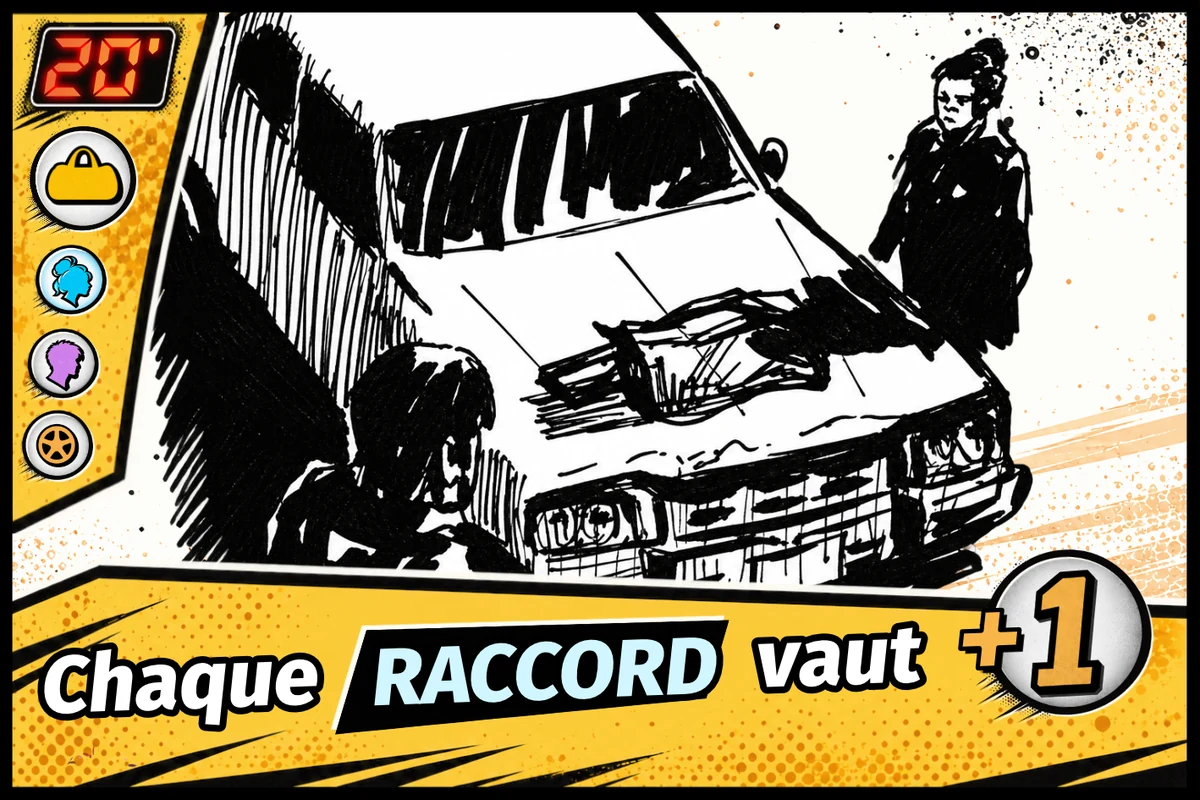
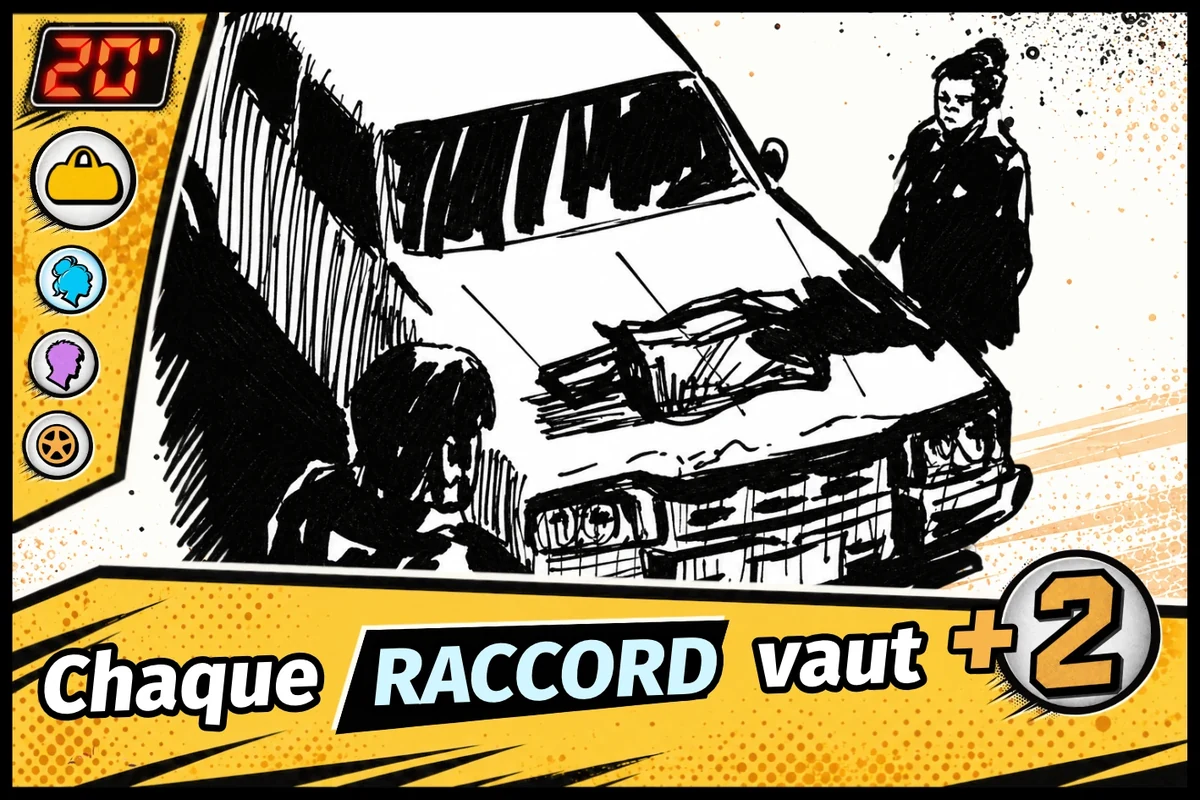
v4.1.21 - Nouveau Plan Large : le L20
- Nouveau Plan Large : le L20 — sans chrono, Objet, Arme, Véhicule, « 4 × SÉQUENCE avec Objet + Véhicule + Arme ». La pioche passe à 52 cartes.
- Trois Plans Larges revus : L5 « Chaque Raccord vaut +2 », L8 « 1 × carte PLAN dans le Chutier », L4 redessiné avec ses six icônes (même décompte).

Claude-Session: https://claude.ai/code/session_01SEL89cNhQA7nZJAfcMueK5

diff --git a/js/data.js b/js/data.js
@@ -1017,7 +1017,7 @@ export function recenserBoite(cfg) {
 //   desactives  = [id de carte, …]       — les cartes écartées du paquet
 //
 // La clé d'un plan : « GP13 » pour un Gros Plan, son seul numéro pour un Plan
-// Large ou un Plan de départ — les deux séries se numérotent à part, L1 à L19
+// Large ou un Plan de départ — les deux séries se numérotent à part, L1 à L20
 // et GP00 à GP102.
 
 /** La clé d'un plan. */
@@ -1030,20 +1030,21 @@ export function cleplan(num, grosPlan) {
 // le site ne les redessine pas. Ce qui suit est ce que le MOTEUR a besoin d'en
 // savoir pour compter — minutage en minutes, icônes, pouvoir —, lu sur chaque
 // carte. La première icône est la DOMINANTE, la grande, qui donne sa couleur à
-// la carte ; le L6 et le GP00 n'en ont pas, et l'Entracte (L10) n'a aucune icône.
+// la carte ; le L6, le L20 et le GP00 n'en ont pas, et l'Entracte (L10) n'a aucune
+// icône.
 //
-// Les dix-neuf Plans Larges sont numérotés L1 à L19, par minutage croissant.
+// Les vingt Plans Larges : L1 à L19 par chrono croissant, puis le L20, sans chrono.
 // Quatre d'entre eux sont les plans de départ : L5, L7, L12 et L16.
 const PD41 = [5, 7, 12, 16];
 const PLANS_41 = [
   PL(1, 10, ['OBJET', 'ARME', 'HEROINE'], OBJ.seqAvec(5, 'AVEC', 'OBJET', 3)),
   PL(2, 10, ['ALLIE', 'VEHICULE', 'ENNEMI'], OBJ.seqAvec(3, 'AVEC', 'RACCORD')),
   PL(3, 10, ['HEROINE', 'ENNEMI', 'ARME'], OBJ.seqVoisines(4, 'APRES')),
-  PL(4, 20, ['ALLIE', 'HEROINE', 'OBJET'], OBJ.seqAvec(4, 'AVEC', 'DIFFERENTES', 6)),
-  PL(5, 20, ['OBJET', 'HEROINE', 'ALLIE', 'VEHICULE'], OBJ.raccordVaut(1)),
+  PL(4, 20, ['ALLIE', 'HEROINE', 'OBJET'], OBJ.seqAvec(4, 'AVEC', 'ENNEMI+ARME+VEHICULE+HEROINE+ALLIE+OBJET')),
+  PL(5, 20, ['OBJET', 'HEROINE', 'ALLIE', 'VEHICULE'], OBJ.raccordVaut(2)),
   PL(6, 20, ['OBJET', 'ARME', 'VEHICULE'], OBJ.seqLongue(2)),
   PL(7, 30, ['ALLIE', 'ENNEMI', 'ARME'], OBJ.planPlus(1)),
-  PL(8, 30, ['ENNEMI', 'ALLIE', 'OBJET'], OBJ.dansChutier(2)),
+  PL(8, 30, ['ENNEMI', 'ALLIE', 'OBJET'], OBJ.dansChutier(1)),
   PL(9, 30, ['VEHICULE', 'HEROINE', 'ENNEMI'], OBJ.seqAvec(4, 'SANS', 'TC_VIDE')),
   PL(10, 35, [], OBJ.seqAvec(3, 'AVEC', 'ORDRE')),
   PL(11, 40, ['HEROINE', 'ENNEMI', 'VEHICULE', 'ARME'], OBJ.seqAvec(3, 'AVEC', 'PLAN', 3)),
@@ -1055,6 +1056,9 @@ const PLANS_41 = [
   PL(17, 60, ['ALLIE', 'HEROINE', 'VEHICULE'], OBJ.extreme(1, 'PLUS', 'MONTAGE')),
   PL(18, 60, ['ENNEMI', 'HEROINE', 'ALLIE'], OBJ.seqAvec(4, 'AVEC', 'HEROINE+ALLIE+ENNEMI'), { mort: true }),
   PL(19, 60, ['HEROINE', 'VEHICULE', 'OBJET'], OBJ.seqVoisines(4, 'AVANT'), { mort: true }),
+  // Le L20, arrivé après les autres : sans chrono (« -- »), sans dominante, sur
+  // l'illustration du L6.
+  PL(20, 0, ['OBJET', 'ARME', 'VEHICULE'], OBJ.seqAvec(4, 'AVEC', 'OBJET+VEHICULE+ARME')),
 ];
 
 // Les cinquante-quatre GROS PLANS, 60 × 80 mm chacun. Leur numéro dit leur

diff --git a/js/app.js b/js/app.js
@@ -1997,7 +1997,7 @@ function nbAjoutees() {
 /**
  * Le premier numéro libre d'une série. Les Gros Plans se numérotent à part des
  * Plans Larges et des Plans de départ — un GP05 et un L5 ne se confondent pas.
- * Les numéros de la boîte s'arrêtent à GP102 et à L19 : un plan créé prend la
+ * Les numéros de la boîte s'arrêtent à GP102 et à L20 : un plan créé prend la
  * suite. Un plan supprimé garde son numéro, pour retrouver sa place si on le
  * restaure.
  */
@@ -2006,7 +2006,7 @@ function prochainNumero(grosPlan) {
   const pris = new Set(surLeModifie(() => catalogue()
     .filter((p) => (p.format === 'GP') === !!grosPlan).map((p) => p.numOrigine)));
   for (const x of (grosPlan ? a.scenes : [...a.larges, ...a.departs])) pris.add(x.num);
-  let n = grosPlan ? 103 : 20;
+  let n = grosPlan ? 103 : 21;
   while (pris.has(n)) n++;
   return n;
 }

diff --git a/js/version.js b/js/version.js
@@ -1,8 +1,16 @@
 // Compteur de version — incrémenter à chaque modification livrée.
-export const VERSION = '4.1.20';
-export const BUILD_DATE = '2026-11-13 16:39';
+export const VERSION = '4.1.21';
+export const BUILD_DATE = '2026-11-16 16:42';
 
 export const CHANGELOG = [
+  {
+    v: '4.1.21',
+    date: '16/11/2026',
+    items: [
+      "<b>Nouveau Plan Large : le L20</b> — sans chrono, Objet, Arme, Véhicule, « 4 × SÉQUENCE avec Objet + Véhicule + Arme ». La pioche passe à 52 cartes.",
+      "<b>Trois Plans Larges revus</b> : L5 « Chaque Raccord vaut +2 », L8 « 1 × carte PLAN dans le Chutier », L4 redessiné avec ses six icônes (même décompte).",
+    ],
+  },
   {
     v: '4.1.20',
     date: '13/11/2026',

diff --git a/sw.js b/sw.js
@@ -7,7 +7,7 @@
 // site, et ne se rabat sur sa copie en cache qu'en cas de coupure — le site
 // reste donc consultable hors ligne, mais n'est jamais périmé en ligne.
 
-const CACHE = 'edit-4.1.20';
+const CACHE = 'edit-4.1.21';
 
 self.addEventListener('install', () => {
   // La nouvelle version du worker prend la main sans attendre.

diff --git a/README.md b/README.md
@@ -9,7 +9,7 @@ dossier (`python3 -m http.server`).
 
 ## Le jeu, en bref
 
-- **19 Plans Larges** (une image pleine carte, 120 × 80 mm), dont **4 Plans de départ** : leurs six
+- **20 Plans Larges** (une image pleine carte, 120 × 80 mm), dont **4 Plans de départ** : leurs six
   couples font six cartes de départ recto verso.
 - **54 Gros Plans**, deux par carte : 36 cartes à deux Gros Plans, moitié gauche et moitié droite. Le
   Raccord y est imprimé huit fois, l'Ouverture et la Fin deux fois, neuf des Gros Plans sans minutage
@@ -47,11 +47,11 @@ outils/verifier.mjs     contrôle rapide (≈ 15 s) : moteur, chargement, écran
 outils/versionner.mjs   version.json et cache du service worker
 outils/cartes.py        fait entrer les cartes de l'auteur (PNG 300 dpi) dans assets/s41
 css/styles.css
-assets/s41/             les vraies cartes : L1…L19, GP00…GP102, DOS (et illus/, l'illustration seule)
+assets/s41/             les vraies cartes : L1…L20, GP00…GP102, DOS (et illus/, l'illustration seule)
 assets/icones/          les sept icônes, découpées sur les cartes
 assets/marque/          le logo EDIT
 js/version.js           version du site et journal des modifications
-js/data.js              le matériel : icônes, pouvoirs, les 19 Plans Larges, les 54 Gros Plans, l'assemblage
+js/data.js              le matériel : icônes, pouvoirs, les 20 Plans Larges, les 54 Gros Plans, l'assemblage
 js/config.js            variables par défaut, profils d'IA, description des réglages
 js/engine.js            pioche, rivière, Chutier, coups légaux, pose, fin de partie
 js/scoring.js           séquences, portée des pouvoirs, décompte

diff --git a/CLAUDE.md b/CLAUDE.md
@@ -31,7 +31,7 @@ Cartes Objectif, modes, sets, Atelier) sans demande de l'auteur.
   `js/data.js`) — jamais un dessin refait. Il les livre en PNG 300 dpi ; `python3 outils/cartes.py
   <dossier> assets/s41 [--illus]` en fait les copies d'écran. Les données du moteur (minutage, icônes —
   la dominante en premier —, pouvoir) se LISENT sur l'image et se rangent dans `PLANS_41` / `GP_41`.
-- **Plans Larges** : L1 à L19, une image pleine carte (120 × 80 mm). Quatre sont les **Plans de départ**
+- **Plans Larges** : L1 à L20, une image pleine carte (120 × 80 mm). Quatre sont les **Plans de départ**
   (L5, L7, L12, L16) : leurs six couples font six **cartes de départ** recto verso — le seul recto verso
   du jeu. Chaque joueuse en reçoit une et choisit sa face.
 - **Gros Plans** : 54 (`GP00`…`GP66`, `GP100` Raccord, `GP101` Ouverture 01', `GP102` Fin 70'), deux par
